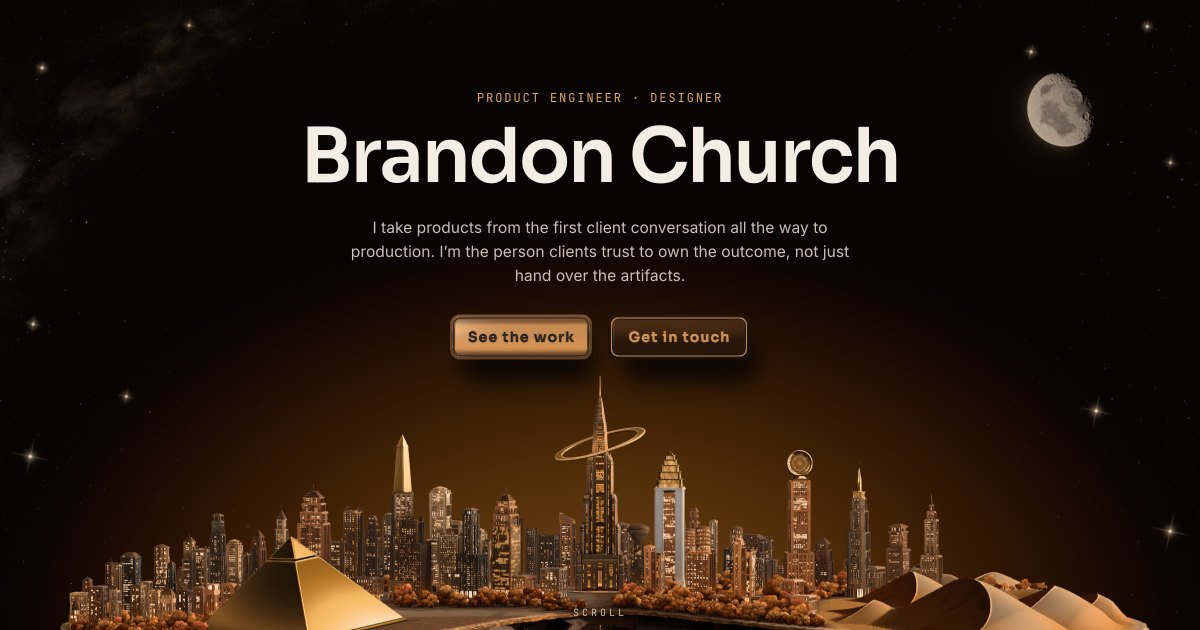
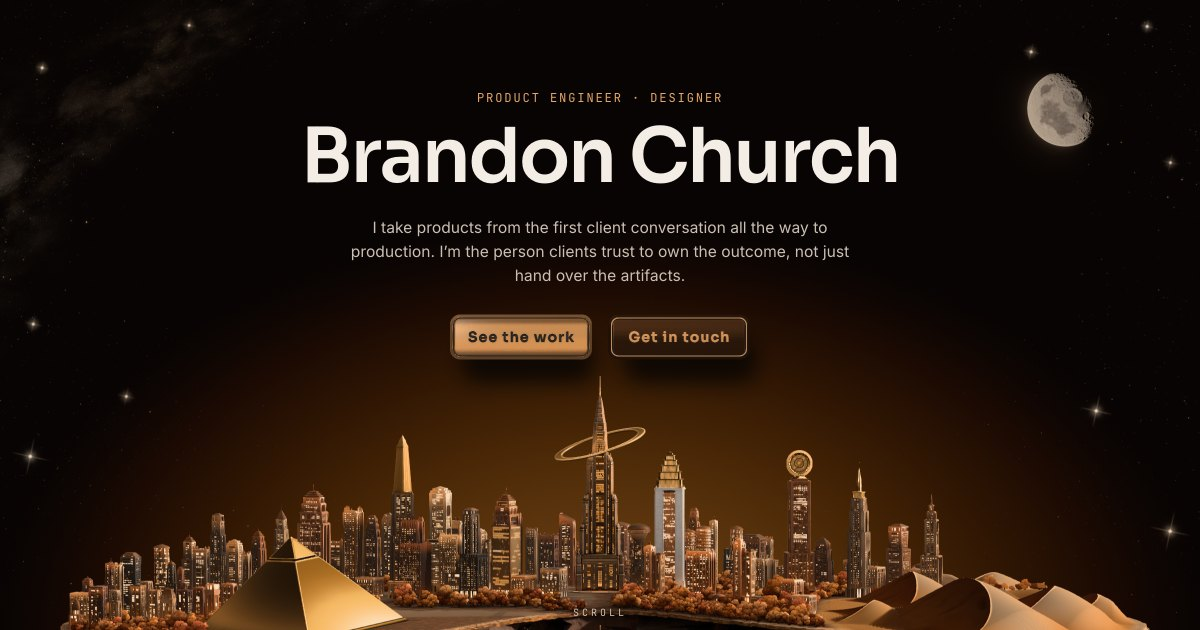
The log at ten to eight, and the stills taken again from the build that is pushed

diff --git a/LOG.md b/LOG.md
@@ -180,6 +180,10 @@ Newest first. One entry per piece of work. Say what was done, what Brandon said,
     - **Pushed as `e6d0e42`** after the same checks. `skin` round 8 is kept (6 and 6: the knot as a hard cleft with no blob, a warmer pale side with rimmed craters, the pale tear as a lit broken lip, no stair steps in the stored shadow, and the core's light no longer thrown away on faces turned from the moon). Its files were made again in the scratch copy against the committed rock. Fable's ruling on what it asked: the knot keeps a warm light on the rock round it, as the picture has, as light broken by the rock's relief and never a soft disc. Round 9: that light, the pale tear moved onto the picture's leaning line and broken into chunks, crust that is stone.
     - **Running:** `rock-r` 7, `towers` 10 (then 11, his tower), `skin` 9, `trees` 12, `core` 12, `spire` 11, `land` 8, `debris` 7.
 - **About 07:45, by Fable:** `trees` round 12 is not kept (5.5 and 5, and on the page only modestly different from round 10, by its own builder's word). It is on `kept/trees-r12`, and the trees' working files are round 10's again. **The trees rest at round 10**: three rounds since have moved them sideways. What is left for them is at three times (a crown with an inside, a trunk that forks), and the row behind the dunes, which the tall dunes mostly hide by his own ruling.
+- **About 07:50, by Fable:**
+    - `towers` round 10 is kept and committed (`ad3501b`), judged by Fable on the page beside picture 9 and round 9: lit sides and floodlit tops, a gold obelisk, glass that mirrors. Its two reviewers were stopped before they reported, so that the city's files were free for his tower. Its builder found why the city had no light direction: the low moon behind a close set city shades nearly every face, so the lit side comes from the sky about the moon, taken now by each face's own angle (`SHADE` in `towers/materials.ts`).
+    - **His stepped tower's remake is running** (the city's round 11, one Opus builder from `towers-r11.md`, started 07:45 with the Agent tool: ultracode was switched off, so no workflow). When it reports to `shots/world/towers/r11-report.md`, Fable judges it beside his screenshot, and two fresh reviewers are worth spawning the same way.
+    - **Running:** `rock-r` 7, `towers` 11 (his tower), `skin` 9, `core` 12, `spire` 11, `land` 8, `debris` 7.
 - **Still to do before he wakes:** the hero joined to the new world so the page scrolls to Contact, `npm run mem` and `npm run perf`, a production build, the push, the overlays and side by sides kept in `reference/studies/`, and a plain account of what is at the bar and what is not.
 
 ## 2026-11-15 · The frame corrected to picture 9, and the rock traced from the picture (Fable, Claude Code)
